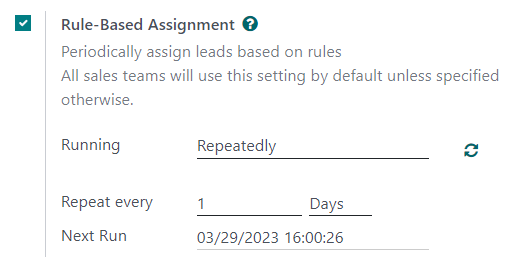
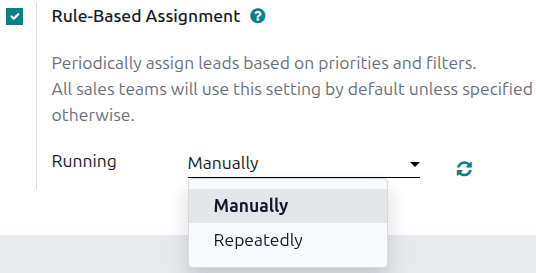
[IMP] CRM: Partially updated 'Assign leads with predictive lead scoring'

diff --git a/content/applications/sales/crm/track_leads/lead_scoring.rst b/content/applications/sales/crm/track_leads/lead_scoring.rst
@@ -65,8 +65,8 @@ To customize the variables used by predictive lead scoring, go to :menuselection
 Configuration --> Settings`. Under :guilabel:`Predictive Lead Scoring`, click on the
 :guilabel:`Update Probabilities` button.
 
-Then, click on the drop-down menu to choose which variables the predictive lead scoring feature
-takes into account.
+Then, click on the drop-down menu and the :icon:`oi-close` :guilabel:`(Delete)` icon to choose which
+variables the predictive lead scoring feature takes into account.
 
 .. image:: lead_scoring/update-probabilities.png
    :alt: The Update Probabilities window in the Predictive Lead Scoring settings.
@@ -90,23 +90,28 @@ Any number of the following variables can be activated:
 Next, click on the date field next to the option :guilabel:`Consider leads created as of the:` to
 select the date from which predictive lead scoring begins its calculations.
 
-Lastly, click :guilabel:`Confirm` to save changes.
+Lastly, click :guilabel:`Update` to save changes.
 
 Change the probability manually
 -------------------------------
 
 An opportunity's probability of success can be changed manually on the opportunity form. Click on
-the probability number to edit it.
+the probability number to edit it. The probability for a lead **cannot** be manually set to 100%.
+Attemping to convert a lead with a 100% probability into an opportunity will result in an error
+message.
 
-.. important::
-   Manually changing the probability removes the automatic probability updates for that opportunity.
-   The probability no longer automatically updates as the opportunity moves through each stage of
-   the pipeline.
+.. image:: lead_scoring/100-percent-lead-error.png
+   :alt: The error message that appears when attempting to convert a 100% probability lead into an
+         opportunity.
 
-To reactivate automatic probability, click on the gear icon next to the probability percentage.
+Manually changing the probability supersedes the automatic probability updates for that
+lead/opportunity. However, the probability still automatically updates as the opportunity moves
+through each stage of the pipeline or as more information is added to the lead form. To overwrite
+the manual probability, click on the :guilabel:`(Switch to AI-computed probabilities)` icon next to
+the probability percentage.
 
-.. image:: lead_scoring/probability-gear-icon.png
-   :alt: The gear icon used to reactivate automatic probability on an opportunity form.
+.. image:: lead_scoring/probability-icon.png
+   :alt: The icon used to reactivate automatic probability on an opportunity form.
 
 Assign leads based on probability
 =================================
@@ -134,10 +139,10 @@ desired interval. Time periods range from :guilabel:`Minutes` to :guilabel:`Week
    :alt: The Rule-Based Assignment setting in CRM settings.
 
 If :guilabel:`rule-based assignment` is set to run :guilabel:`Repeatedly`, the assignment can still
-be triggered manually using the circular arrow icon in the :guilabel:`Rule-Based Assignment`
-settings, or using the :guilabel:`Assign Leads` button on the sales team configuration page. Once a
-lead has been assigned to a salesperson via this rule, the leads are automatically converted into an
-opportunity by the system.
+be triggered manually using the :icon:`fa-refresh` :guilabel:`(Update now)` icon in the
+:guilabel:`Rule-Based Assignment` settings, or using the :guilabel:`Assign Leads` button on the
+sales team configuration page. Once a lead has been assigned to a salesperson via this rule, the
+leads are automatically converted into an opportunity by the system.
 
 Configure assignment rules
 --------------------------
